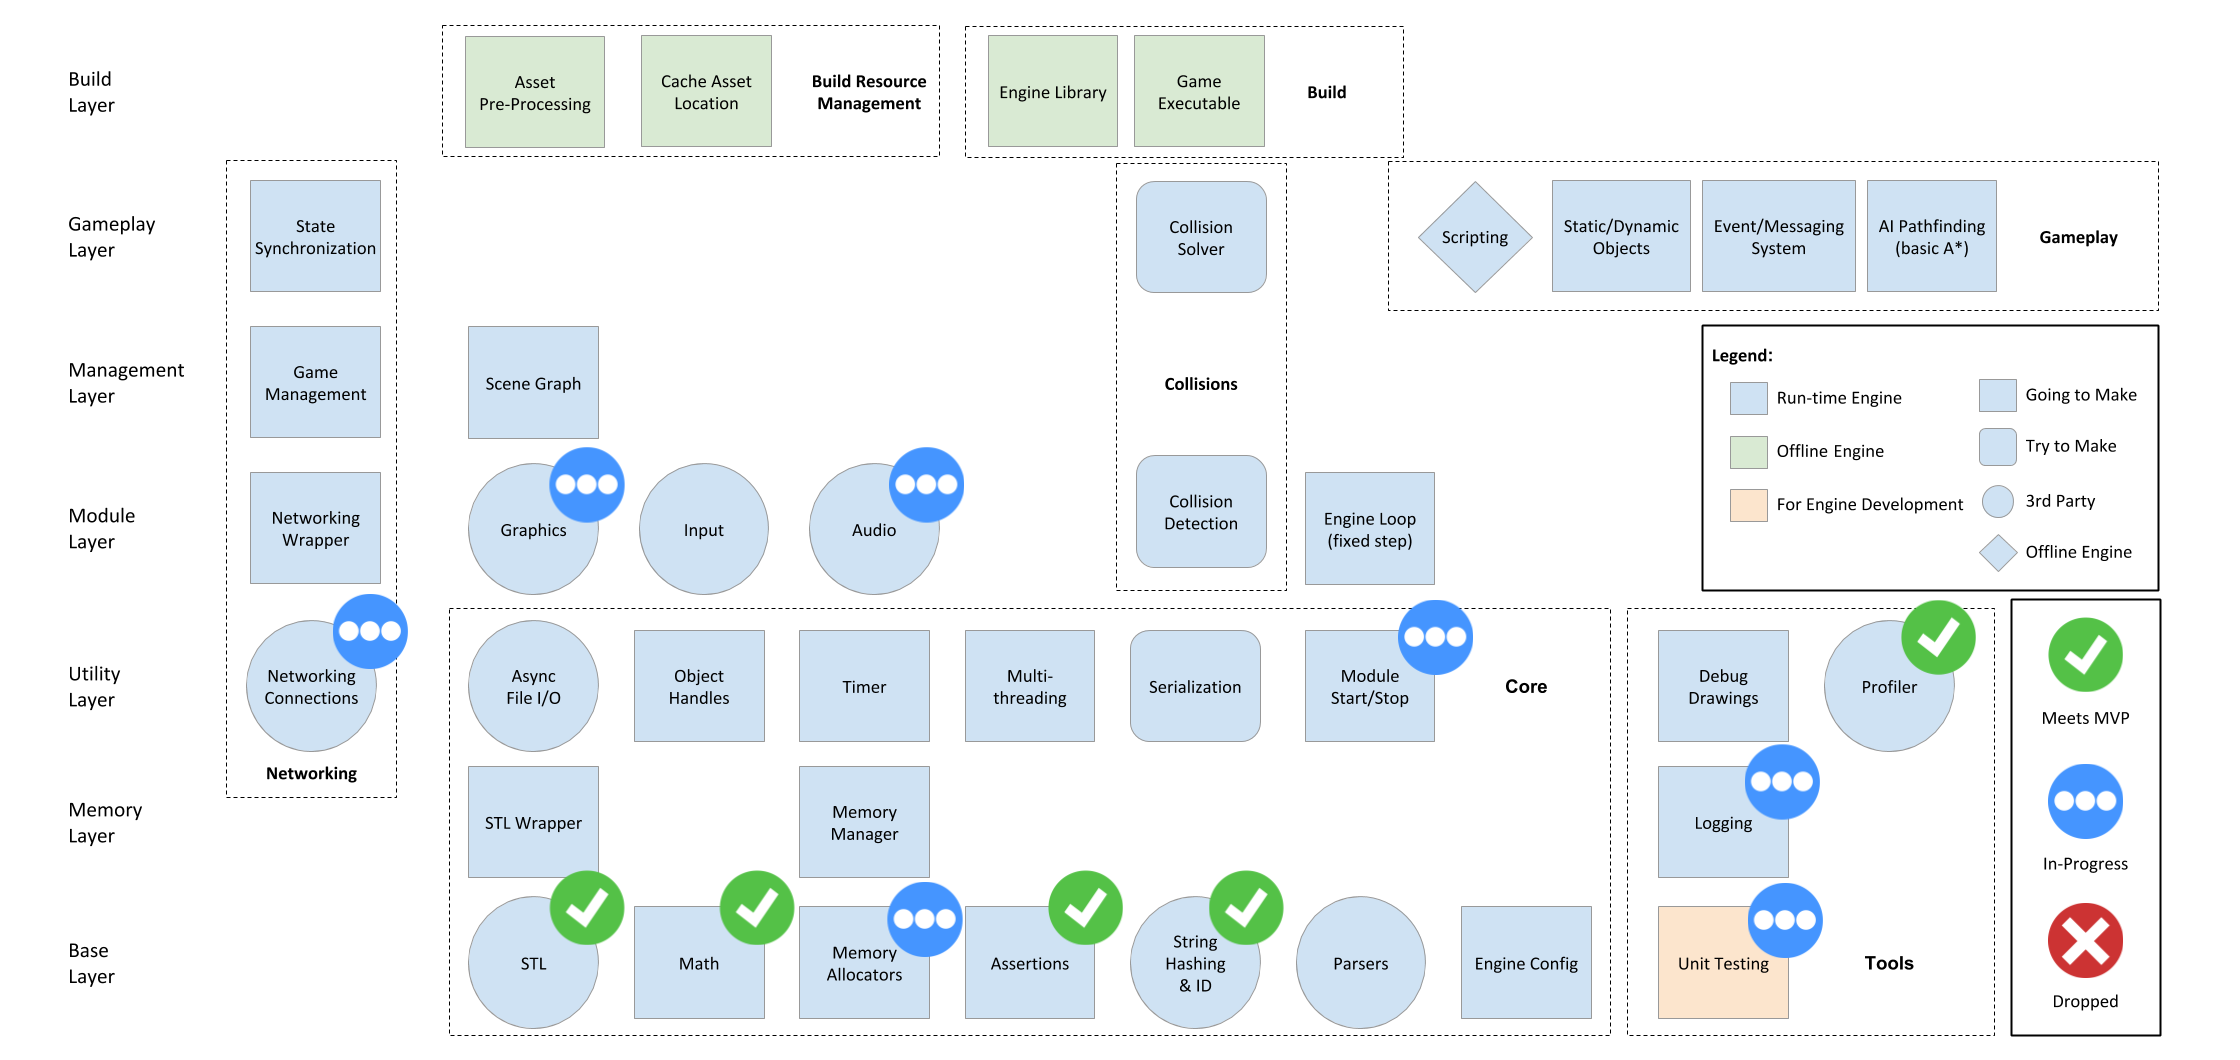
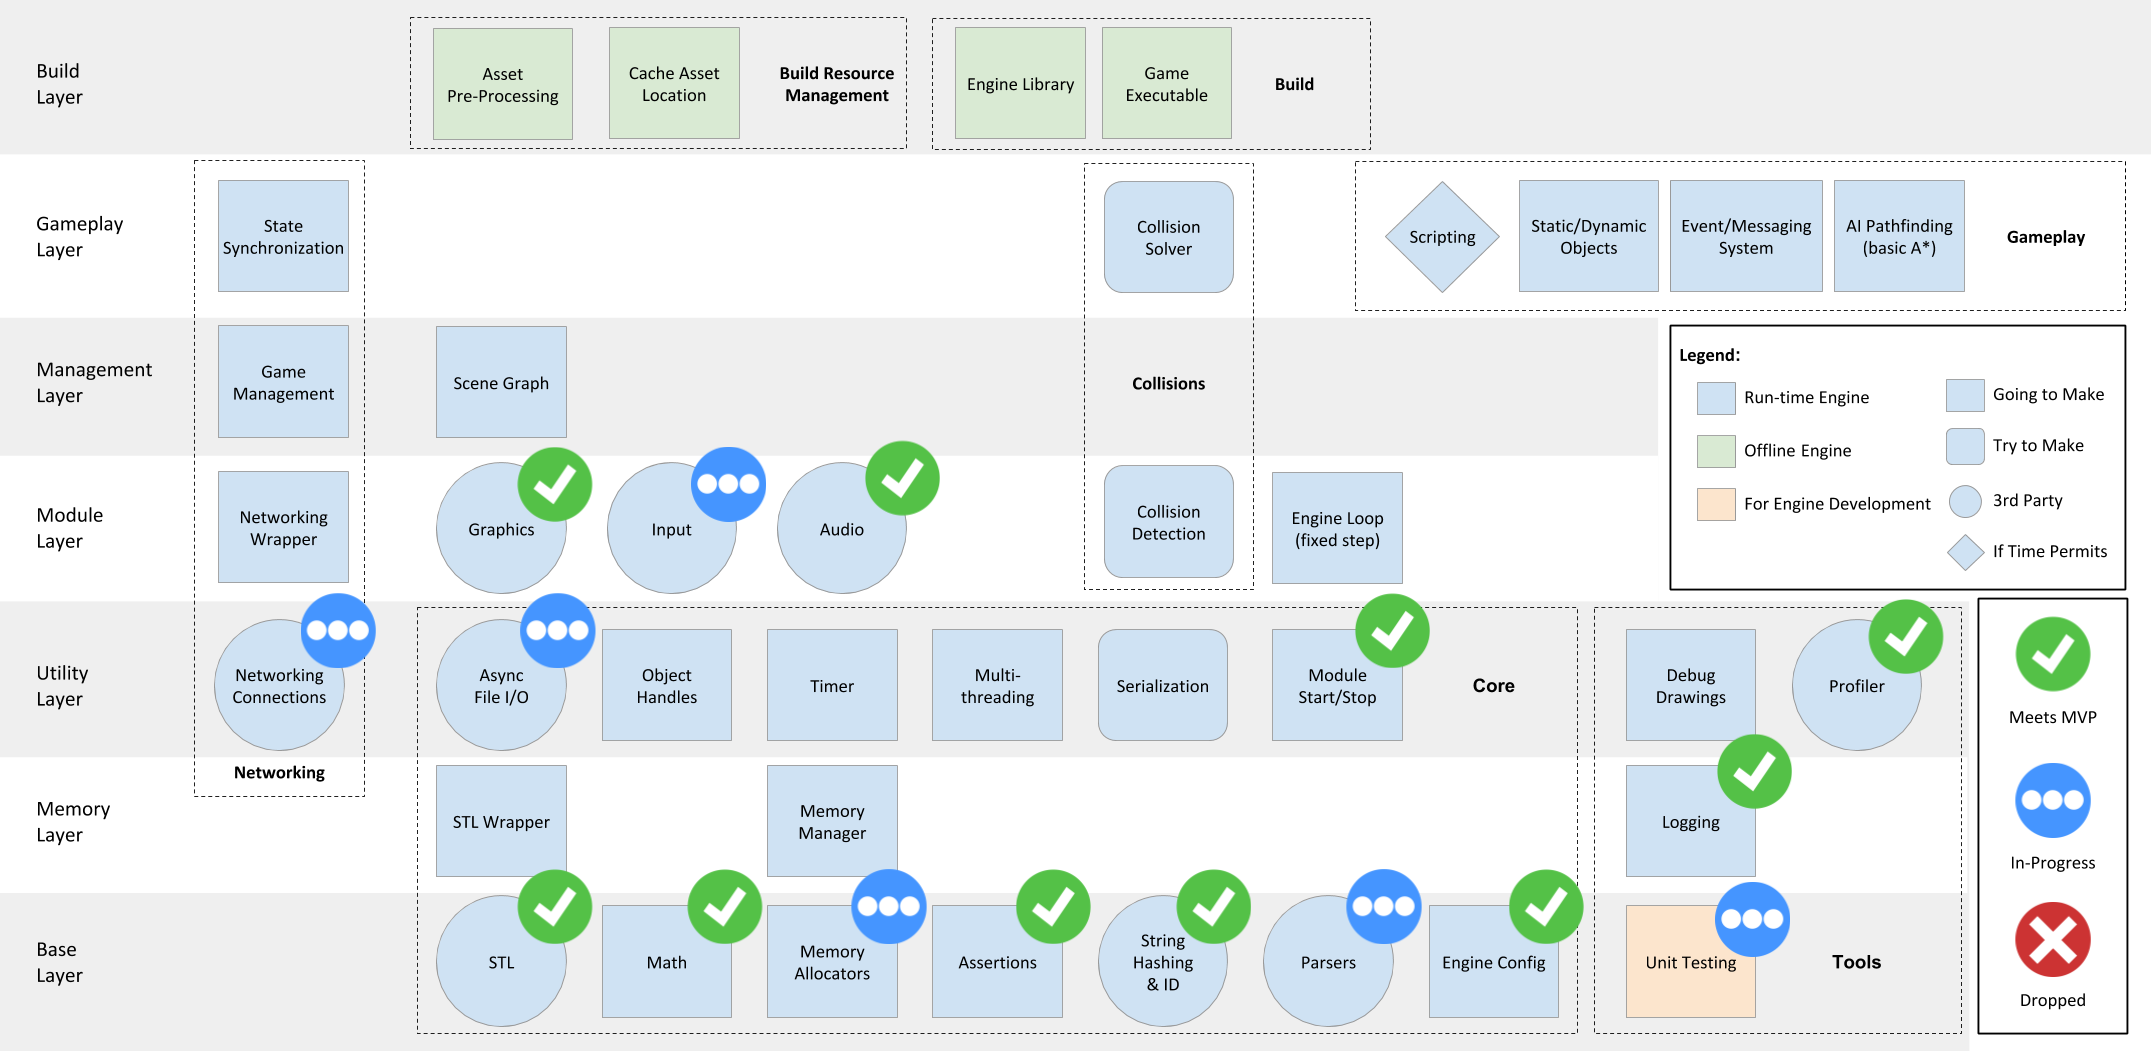
Updated readme and diagram

diff --git a/README.md b/README.md
@@ -1,9 +1,9 @@
 # The-Engine
 
 # Post-Clone Initialization
-git submodules update --init
-
-See External directory for more specific instructions on the 3rd party includes.
+Before being able to build in Visual Studio:
+1. git submodule update --init
+2. Follow [External README](Isetta/External/README.md) for specific instructions on the 3rd party includes.
 
 # Engine Architecture and Progress
 ![Architecture Diagram](ArchitectureDiagram.png?raw=true "Architecture Diagram")
